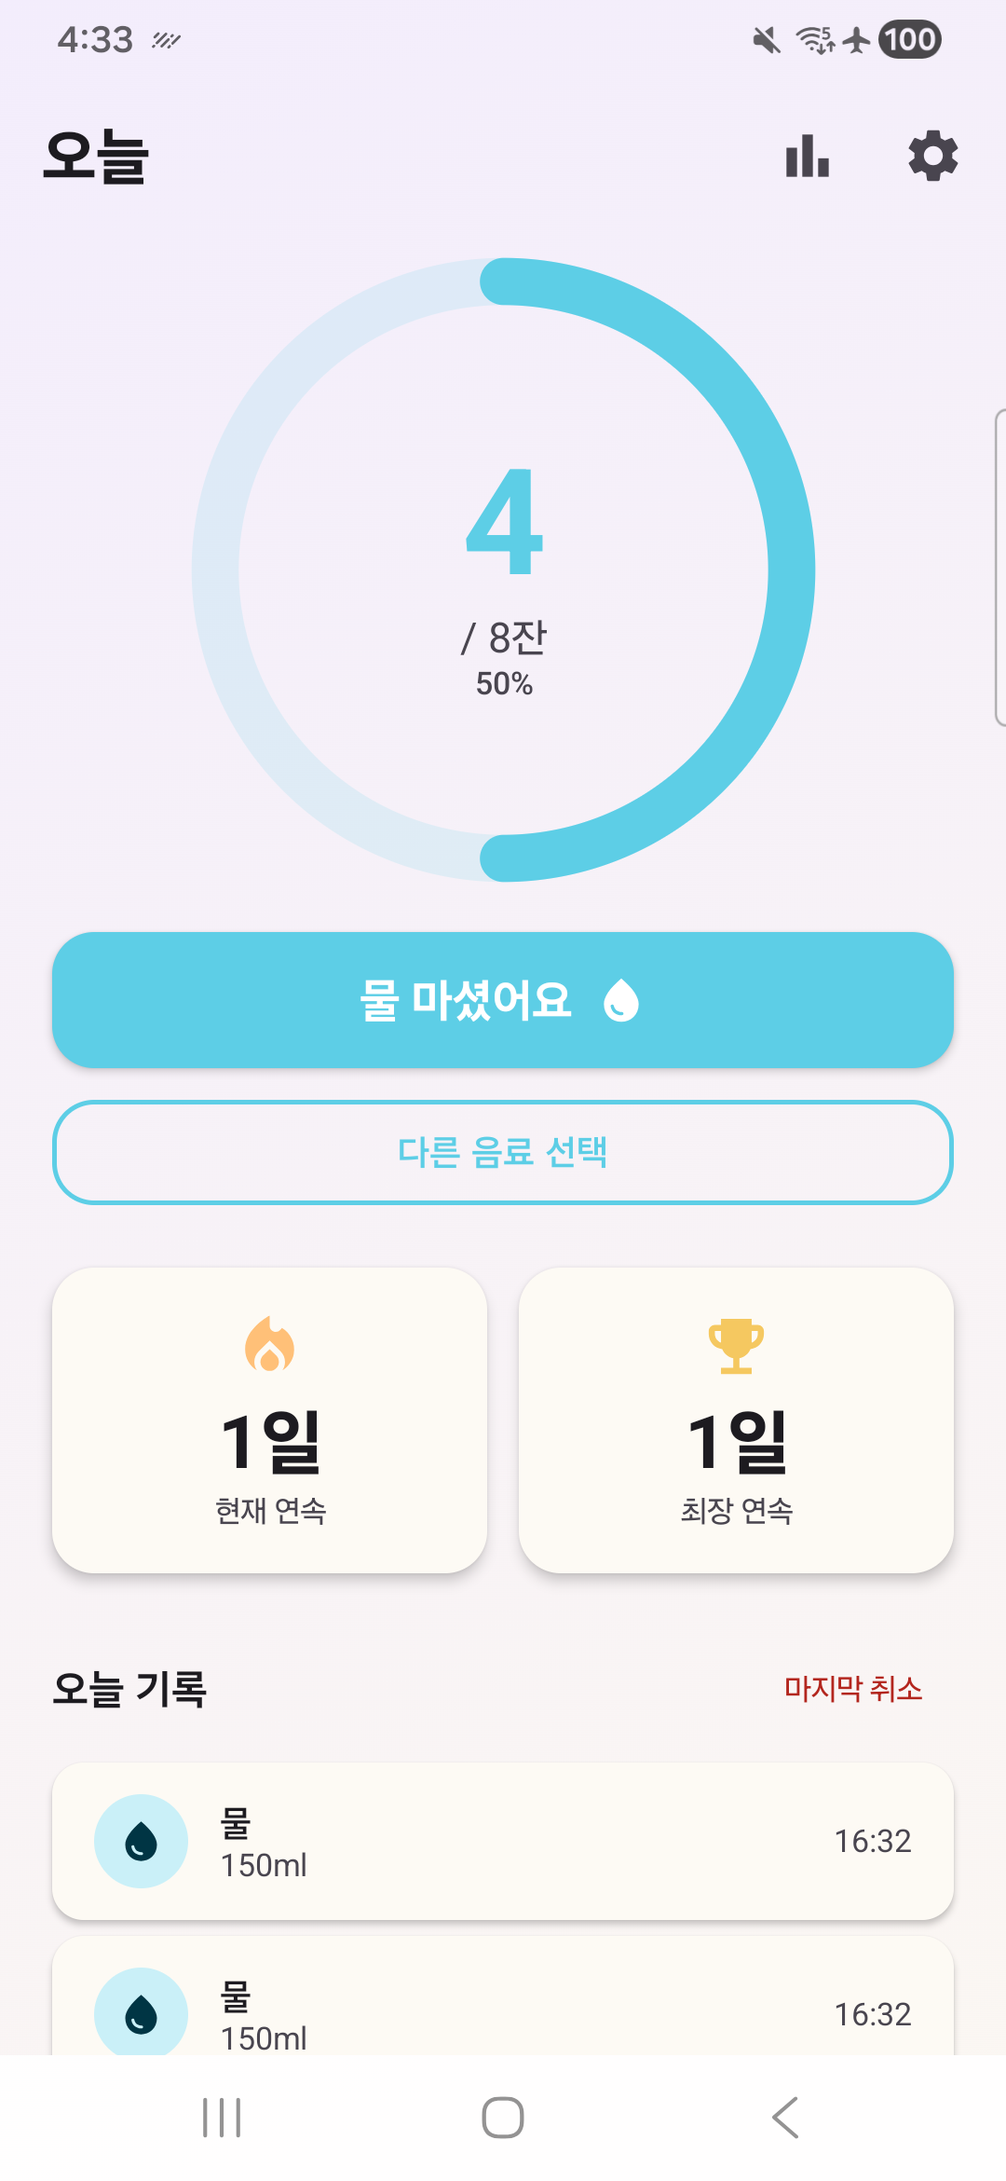
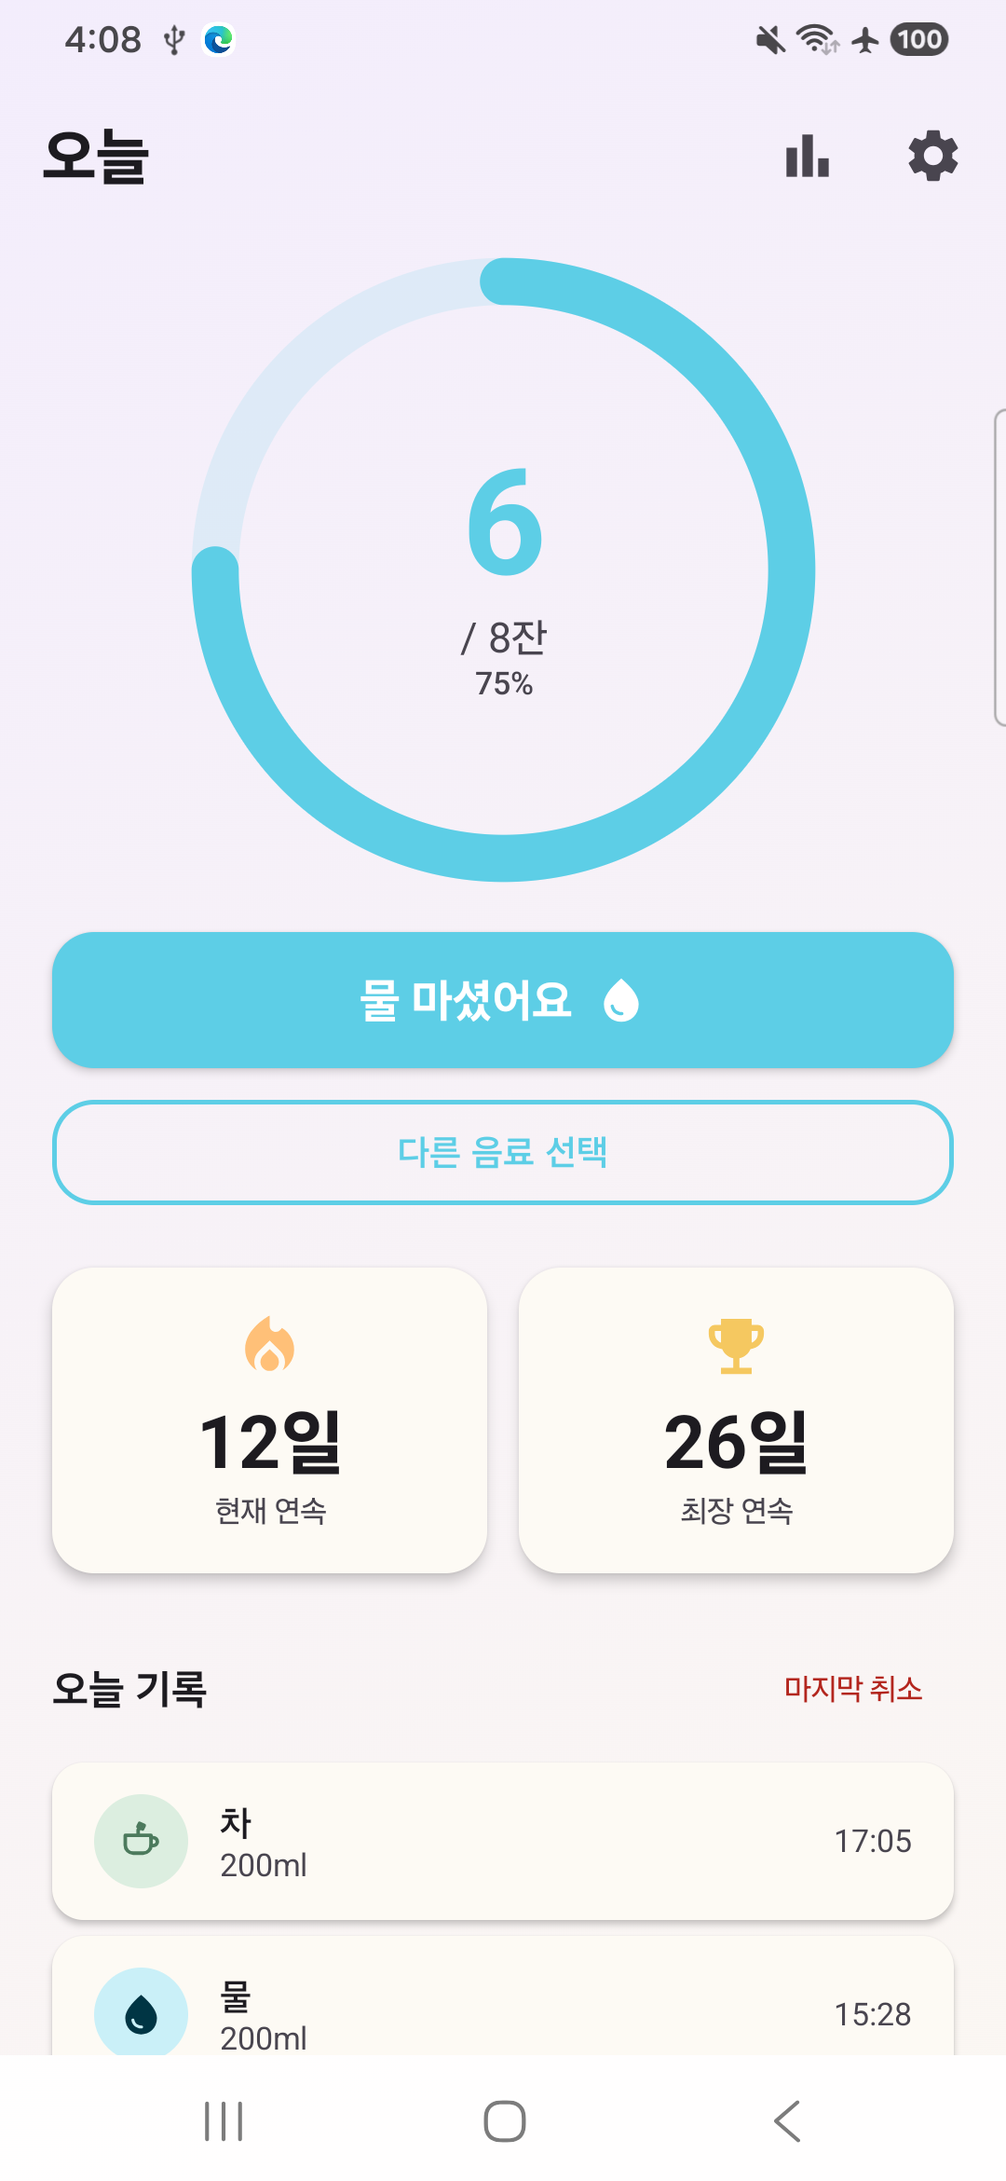
[chore] 스토어 스크린샷 7장 전체 재촬영 + 스토리보드 구성
위젯이 핵심 기능이라는 의견을 반영해 순서를 홈→위젯→기록 시트→30일 트렌드→
주간 통계→설정→다크모드로 재배치하고, 화면마다 물방울 마스코트 말풍선
코멘트를 곁들이는 스토리보드(docs/store/screenshot_storyboard.html)를 추가.
"어느 정도 써온 앱" 느낌을 위해 실기기 디버그 빌드에 12일 연속 등 사용
이력을 시딩해 촬영. listing_ko.md에 헤드라인/말풍선 카피 정리.

diff --git a/docs/store/screenshot_storyboard.html b/docs/store/screenshot_storyboard.html
@@ -1,0 +1,211 @@
+<!DOCTYPE html>
+<html lang="ko">
+<head>
+<meta charset="UTF-8">
+<title>워터링 스토어 스크린샷 스토리보드</title>
+<style>
+  body {
+    margin: 0;
+    padding: 40px 24px;
+    background: #EDE7F6;
+    font-family: "Apple SD Gothic Neo", "Malgun Gothic", sans-serif;
+  }
+  h1 { text-align: center; color: #2A2A33; margin-bottom: 4px; }
+  p.sub { text-align: center; color: #6b6b76; margin-top: 0; margin-bottom: 36px; }
+  .board {
+    display: flex;
+    gap: 22px;
+    overflow-x: auto;
+    padding: 20px 8px 40px;
+  }
+  .step {
+    flex: 0 0 260px;
+    display: flex;
+    flex-direction: column;
+    align-items: center;
+  }
+  .step-num {
+    width: 32px; height: 32px;
+    border-radius: 50%;
+    background: #5DCEE6;
+    color: #003544;
+    font-weight: 700;
+    display: flex; align-items: center; justify-content: center;
+    margin-bottom: 10px;
+    font-size: 15px;
+  }
+  .headline {
+    background: linear-gradient(135deg, #F3EDFC, #FBF7F2);
+    border: 1px solid #e3d9f5;
+    border-radius: 14px;
+    padding: 14px 16px;
+    text-align: center;
+    font-weight: 700;
+    font-size: 16px;
+    color: #2A2A33;
+    margin-bottom: 14px;
+    min-height: 44px;
+    display: flex;
+    align-items: center;
+    justify-content: center;
+    line-height: 1.35;
+  }
+  .phone {
+    position: relative;
+    width: 260px;
+    border-radius: 32px;
+    border: 6px solid #1a1a1f;
+    overflow: hidden;
+    box-shadow: 0 12px 28px rgba(0,0,0,0.22);
+    background: #000;
+  }
+  .phone img {
+    display: block;
+    width: 100%;
+  }
+  .bubble {
+    position: absolute;
+    max-width: 168px;
+    background: #FFFFFF;
+    border: 2px solid #5DCEE6;
+    border-radius: 18px;
+    padding: 8px 12px;
+    font-size: 12.5px;
+    font-weight: 700;
+    color: #2A2A33;
+    line-height: 1.3;
+    box-shadow: 0 6px 14px rgba(0,0,0,0.18);
+    display: flex;
+    align-items: center;
+    gap: 6px;
+    z-index: 5;
+  }
+  .bubble .drop {
+    font-size: 15px;
+    flex-shrink: 0;
+  }
+  .bubble::after {
+    content: "";
+    position: absolute;
+    width: 14px; height: 14px;
+    background: #FFFFFF;
+    border-right: 2px solid #5DCEE6;
+    border-bottom: 2px solid #5DCEE6;
+  }
+  .bubble.tail-bl::after { left: 22px; bottom: -8px; transform: rotate(45deg); }
+  .bubble.tail-tl::after { left: 22px; top: -8px; transform: rotate(225deg); }
+  .bubble.tail-br::after { right: 22px; bottom: -8px; transform: rotate(45deg); }
+  .bubble.tail-tr::after { right: 22px; top: -8px; transform: rotate(225deg); }
+  .bubble.bubble-dark { background: #12302d; color: #EAF7F5; }
+  .bubble.bubble-dark::after { background: #12302d; }
+  .caption {
+    margin-top: 10px;
+    font-size: 12.5px;
+    color: #7a7a86;
+    text-align: center;
+  }
+  .arrow {
+    align-self: center;
+    font-size: 28px;
+    color: #b9a8e0;
+    margin: 0 -6px;
+  }
+  .flow { display: flex; align-items: center; }
+</style>
+</head>
+<body>
+  <h1>💧 워터링 — 스토어 스크린샷 스토리보드</h1>
+  <p class="sub">1탭 기록 → 앱을 열지 않아도 홈 화면 위젯으로 끝 → 다양한 음료 → 30일 트렌드로 보는 패턴 → 이번 주 성과 → 내 취향대로 설정 → 다크모드까지</p>
+
+  <div class="board">
+    <div class="flow">
+      <div class="step">
+        <div class="step-num">1</div>
+        <div class="headline">"탭 한 번, 기록 끝"</div>
+        <div class="phone">
+          <img src="screenshots/01_home.png">
+          <!-- "오늘 기록"(좌)과 "마지막 취소"(우) 사이 빈 여백에 배치. 12일째는 위쪽 "현재 연속"
+               카드 얘기라 꼬리는 위(그 카드 방향)를 가리킴 -->
+          <div class="bubble tail-tl" style="top:75.5%; left:26%;"><span class="drop">💧</span>우와 12일째! 🔥</div>
+        </div>
+        <div class="caption">01_home — 오늘 6/8잔·75%, 🔥12일째 연속</div>
+      </div>
+      <div class="arrow">→</div>
+      <div class="step">
+        <div class="step-num">2</div>
+        <div class="headline">"앱을 열 필요도 없어요, 홈 화면에서 바로"</div>
+        <div class="phone">
+          <img src="screenshots/02_widgets.png">
+          <!-- 위젯 3개(카드까지) 전부 화면 상단 ~3~40%에 몰려있음 — 여유 있게 그 아래(46%)
+               빈 배경에 배치해 위젯을 전혀 가리지 않고, 꼬리만 위젯 쪽을 가리킴 -->
+          <div class="bubble tail-tl" style="top:46%; left:10%;"><span class="drop">💧</span>앱 안 열어도 톡!</div>
+        </div>
+        <div class="caption">02_widgets — 미니형·카드형·가로형 위젯 3종</div>
+      </div>
+      <div class="arrow">→</div>
+      <div class="step">
+        <div class="step-num">3</div>
+        <div class="headline">"물이든 커피든, 다 기록돼요"</div>
+        <div class="phone">
+          <img src="screenshots/03_record_sheet.png">
+          <!-- 시트는 화면 하단 70%를 덮고, 위쪽 30%는 딤 처리된 빈 배경 — 거기 배치하고 꼬리가 커피 칩을 가리킴 -->
+          <div class="bubble tail-bl" style="top:14%; left:22%;"><span class="drop">☕</span>커피도 콜!</div>
+        </div>
+        <div class="caption">03_record_sheet — 음료 6종 + 컵 크기 프리셋</div>
+      </div>
+      <div class="arrow">→</div>
+      <div class="step">
+        <div class="step-num">4</div>
+        <div class="headline">"최근 30일, 내 물 마시기 흐름이 보여요"</div>
+        <div class="phone">
+          <img src="screenshots/04_smart_stats.png">
+          <!-- 차트+안내문구는 20~57% 구간, 그 아래는 완전히 빈 공간 — 거기 배치, 꼬리가 위 차트를 가리킴 -->
+          <div class="bubble tail-tl" style="top:62%; left:18%;"><span class="drop">👀</span>패턴이 한눈에!</div>
+        </div>
+        <div class="caption">04_smart_stats — 30일 트렌드</div>
+      </div>
+      <div class="arrow">→</div>
+      <div class="step">
+        <div class="step-num">5</div>
+        <div class="headline">"이번 주 평균 8.6잔, 6/7일 달성"</div>
+        <div class="phone">
+          <img src="screenshots/05_stats.png">
+          <!-- 이 화면은 카드가 꽉 차있음 — 유일하게 빈 상단 헤더 바(3~9%) 배경에 배치, 꼬리가 아래 차트를 가리킴 -->
+          <div class="bubble tail-br" style="top:3%; right:6%;"><span class="drop">👏</span>이번 주 대박!</div>
+        </div>
+        <div class="caption">05_stats — 주간 바 차트 + 연속 기록 카드</div>
+      </div>
+      <div class="arrow">→</div>
+      <div class="step">
+        <div class="step-num">6</div>
+        <div class="headline">"내 컵, 내 루틴에 맞게"</div>
+        <div class="phone">
+          <img src="screenshots/06_settings.png">
+          <!-- 큰 "하루 목표/컵 크기" 카드가 13~62%를 다 채움 — 빈 상단 헤더 바에 배치, 꼬리가 카드를 가리킴 -->
+          <div class="bubble tail-br" style="top:3%; right:6%;"><span class="drop">🥤</span>내 컵 사이즈로 딱!</div>
+        </div>
+        <div class="caption">06_settings — 하루 목표·컵 크기 프리셋</div>
+      </div>
+      <div class="arrow">→</div>
+      <div class="step">
+        <div class="step-num">7</div>
+        <div class="headline">"다크모드도 예쁘게"</div>
+        <div class="phone">
+          <img src="screenshots/07_dark_mode.png">
+          <!-- 홈과 동일 레이아웃 — 연속 기록 카드(48~62%) 바로 위 여백에 배치 -->
+          <div class="bubble tail-bl bubble-dark" style="top:42%; left:8%;"><span class="drop">🌙</span>밤에도 예쁘죠?</div>
+        </div>
+        <div class="caption">07_dark_mode — 시스템 테마 자동 대응</div>
+      </div>
+    </div>
+  </div>
+
+  <p class="sub" style="margin-top:8px;">참고용 대안 — 연간 히트맵 (스마트 통계 두번째 탭)</p>
+  <div class="board" style="justify-content:center;">
+    <div class="step">
+      <div class="phone"><img src="screenshots/bonus_annual_heatmap.png"></div>
+      <div class="caption">bonus_annual_heatmap — 연간 기록, 최장 26일 연속(대안/추가 후보)</div>
+    </div>
+  </div>
+</body>
+</html>

diff --git a/docs/개발보고서.md b/docs/개발보고서.md
@@ -86,6 +86,10 @@
 > 뒤 호출이 앞 호출의 변경을 덮어쓸 수 있던 read-modify-write 레이스(Mutex로 직렬화, 재현 테스트로
 > 확인 완료). ⑧의 세 번째 항목(컵 크기 다이얼로그 ml 표시 불일치, 정보성·영향 작음)은 낮은
 > 우선순위로 보류. 상세는 아래 "2026-07-17 — 로직 헛점 전수 분석 ⑦⑧ 수정" 섹션 참고.
+> **출시용 스토어 스크린샷 7장 전체 재촬영 완료(2026-07-17/18)**: "위젯이 킥 기능"이라는 owner
+> 의견에 맞춰 순서를 재배치하고, 물방울 마스코트 말풍선 코멘트를 곁들인 스토리보드 구성 추가.
+> 상세는 "남은 작업 > 다운로드 전환 최적화(ASO) 준비" 및 `docs/store/listing_ko.md`,
+> `docs/store/screenshot_storyboard.html` 참고. **다음은 스토어 설명(리스팅 카피) 재작업.**
 
 ---
 
@@ -3704,16 +3708,11 @@
 
 ### Play 스토어 등록 남은 작업 — 2026-07-09 세션, 내일(2026-07-10) 출시 목표
 
-- [x] **스크린샷 5장 재촬영 완료 (2026-07-09)** — 01_home(4/8·50%)/02_record_sheet/04_stats/
-  05_settings(알림 간격 4시간)/06_dark_mode 5장을 Galaxy A25 실기기로 재촬영, 최신 UI(v0.31.26~41
-  전체 반영분) 기준으로 갱신 완료. `docs/store/screenshots/`에 반영 대기 중(사용자 검토 후 확정)
-  - [ ] **03_widgets.png(위젯 3종)만 재작업 필요** — 처음엔 오늘 만든 위젯 테마 화면의 인앱
-    미리보기(`WidgetThemeScreen.kt`의 `MiniWidgetPreview`/`CardWidgetPreview`/`WideWidgetPreview`)로
-    합성했으나, 이 미리보기는 설정 화면 전용으로 새로 그린 간이 버전이라 실제 Glance 위젯
-    (`CircularWidget.kt`/`RectangularWidget.kt`/`NarrowWidget.kt`)과 폰트·간격·문구가 달라
-    사용자가 재작업 요청(2026-07-09). **사용자가 직접 실제 폰 홈 화면에 위젯 3종(미니형/카드형/
-    가로형)을 배치한 뒤 알려주면 그 상태를 캡처하는 방식으로 진행하기로 결정** — 공유 화면(홈
-    런처)이라 자동으로 건드리지 않음. 다음 세션에서 이어서 진행
+- [x] **스크린샷 7장 전체 재촬영 완료 (2026-07-17/18)** — 아래 "다운로드 전환 최적화(ASO) 준비"
+  섹션 참고. `docs/store/screenshots/`에 정식 반영 완료.
+  - [x] **위젯 스크린샷도 포함 완료** — owner가 실제 폰 홈 화면에 위젯 3종(미니형/카드형/가로형)을
+    직접 배치, 그 상태를 캡처(공유 화면인 홈 런처는 자동으로 건드리지 않는 원칙 유지). 상세는 아래
+    섹션 참고.
 - [x] 스토어 텍스트(앱 이름/짧은 설명/전체 설명/키워드) 최신화 — v0.31.38~39 완료(위젯 1탭
   포지셔닝 피벗 + 프리미엄 안내 정리), `docs/store/listing_ko.md` 참고
 - [ ] 잠금화면 위젯 스크린샷 — 지원 기기(One UI 아닌 기기) 확보 후 실기기 검증 필요, 현재 보너스
@@ -3779,15 +3778,27 @@
 - [ ] 프로덕션 액세스 신청 — 위 비공개 테스트 기간(2026-07-24) 종료 및 조건 충족 후 진행
 
 **다운로드 전환 최적화(ASO) 준비 (2026-07-16, 사용자 요청 — 출시 후 다운로드 수 증대 전략)**:
-- [ ] 🔴 **출시용 스토어 스크린샷 재촬영** — 현재 `docs/store/screenshots/` 6장은 v0.31.39
-  포지셔닝 전환("잠금화면 위젯 퍼스트" → "위젯 1탭 퍼스트") 전후로 UI가 계속 바뀌어와 최신 화면과
-  괴리가 있을 가능성이 높음(음료 아이콘 원형 배지, 기록 설정 카드 통합, 위젯 진행률 배경 채움형
-  리디자인 등 07-11~07-13 변경분 다수 미반영). 실기기(SM-A256N)에서 최신 빌드로 전 화면 재촬영 필요
+- [x] 🔴 **출시용 스토어 스크린샷 재촬영** — 2026-07-17/18 완료. 실기기(SM-A256N) 디버그 빌드에
+  "어느 정도 써온 앱"처럼 보이는 사용 이력(12일 연속·최장 26일·이번 주 평균 8.6잔 등)을 시딩한 뒤
+  최신 UI 기준으로 7장 전체 재촬영. "위젯이 킥 기능"이라는 owner 의견을 반영해 순서를 홈→**위젯**→
+  기록 시트→30일 트렌드→주간 통계→설정→다크모드로 재배치하고, 각 화면에 물방울 마스코트가 말하는
+  짧은 코멘트(말풍선)를 곁들이는 스토리보드 구성 추가 — 스피치 버블/콜아웃 스타일이 상위권 앱들의
+  공통 트렌드라는 시장 조사 결과 반영. 미리보기는 `docs/store/screenshot_storyboard.html`.
+  **데이터 시딩 방법(재현용)**: 정식 테스트가 아닌 일회성 androidTest
+  (`ScreenshotSeedTest.kt`, 촬영 후 삭제됨)에서 `WaterRepository.restoreAll()`(백업/복원용으로
+  이미 있던 함수 재사용 — annualHistory 기준으로 streak을 자동 재계산해줘서 손으로 만든 것보다
+  안전)과 `AchievementDataStore.restoreLifetimeEarned()`로 44일치 기록을 직접 심음. **막혔던 점
+  두 가지**: ① 배포판(`com.watering.app`)과 디버그(`.debug`)의 앱 이름이 똑같이 "워터링"이라
+  위젯 선택 목록에서 구분이 안 됐음 — `resValue`로 디버그 앱 이름을 "워터링 디버그"로 임시 변경
+  후 촬영, 완료 후 원복. ② Glance 위젯은 DataStore를 직접 구독하지 않아 데이터만 심으면 위젯이
+  갱신되지 않는 캐시 문제(기존 "Glance 위젯 세션 재사용 stale" 버그와 같은 계열) — 시딩 스크립트
+  끝에 `WateringWidgetUpdater.updateAll()`을 명시적으로 호출해 해결.
 - [ ] 🔴 **스토어 설명(리스팅 카피) 재작업** — `docs/store/listing_ko.md`(+영문판)를 다운로드 전환율을
   높이는 방향으로 다시 다듬음("설명서처럼" 기능을 나열하는 현재 방식 대신, 첫 3줄 후킹·핵심 가치
-  전달 강화). 최신 포지셔닝("위젯 1탭")과 실제 화면(재촬영된 스크린샷)에 맞춰 동기화 필요
-- **진행 순서**: 스크린샷 재촬영 → 그 화면에 맞춰 설명 카피 조정 순으로 진행 권장(설명이 스크린샷을
-  설명하는 구조이므로). 비공개 테스트 종료(2026-07-24)·프로덕션 전환 전에 마무리하는 것이 이상적
+  전달 강화). 최신 포지셔닝("위젯 1탭")과 실제 화면(재촬영된 스크린샷)에 맞춰 동기화 필요 — 헤드라인/
+  말풍선 카피는 이미 `listing_ko.md` 스크린샷 표에 정리해뒀으니 그 톤을 본문 설명에도 반영하면 됨
+- **진행 순서**: ~~스크린샷 재촬영~~(완료) → 그 화면에 맞춰 설명 카피 조정(다음 단계). 비공개 테스트
+  종료(2026-07-24)·프로덕션 전환 전에 마무리하는 것이 이상적
 
 **백업/복원 실기기 검증 우선순위 재조정 (2026-07-09)**: 이번 주 스토어 등록을 우선 진행하기로
 하고 백업/복원 왕복 실기기 검증(SHA-1 불일치로 막혀있던 항목, 위 "백업 및 복원 기능" 섹션 참고)은

diff --git a/docs/store/listing_ko.md b/docs/store/listing_ko.md
@@ -78,14 +78,32 @@ Play Console 콘텐츠 등급 설문 별도 진행 필요 (건강 정보 수집 
 
 ## 스크린샷 (docs/store/screenshots/)
 
-| 파일 | 화면 | 헤드라인(스토어에 별도 오버레이 시 사용) |
-|---|---|---|
-| 01_home.png | 원탭 기록 화면 (진행률 링 4/8) | "탭 한 번, 기록 끝" |
-| 02_record_sheet.png | 음료 기록 시트 | "물 말고도 커피·주스·차·우유까지" |
-| 03_widgets.png | 홈 화면 위젯 3종 | "홈 화면에서도 한눈에" |
-| 04_stats.png | 통계 화면 | "내 수분 패턴을 알면 습관이 된다" |
-| 05_settings.png | 설정 화면 (알림 간격 4시간 포함) | "내 라이프스타일에 맞게 알림 설정" |
-| 06_dark_mode.png | 다크모드 홈 화면 | "내 폰 테마에 맞게 자동 적용" |
+2026-07-17/18 세션에서 전체 재촬영. "어느 정도 써온 앱"처럼 보이도록 실기기 디버그 빌드에 현재
+12일 연속(최장 26일)·이번 주 평균 8.6잔 등 그럴듯한 사용 이력을 시딩한 뒤 촬영(시딩 방법은 아래
+참고). 순서를 "위젯이 킥"이라는 실제 제품 포지셔닝에 맞춰 재배치하고, 각 화면에 물방울 마스코트가
+말하는 짧은 코멘트를 얹는 스토리보드 구성을 추가했다 — 미리보기는
+`docs/store/screenshot_storyboard.html`(브라우저로 직접 열기)에서 확인.
+
+| 순서 | 파일 | 화면 | 헤드라인(스토어에 별도 오버레이 시 사용) | 말풍선 코멘트 |
+|---|---|---|---|---|
+| 1 | 01_home.png | 원탭 기록 화면 (진행률 링 6/8·75%, 🔥12일 연속) | "탭 한 번, 기록 끝" | "우와 12일째! 🔥" |
+| 2 | 02_widgets.png | 홈 화면 위젯 3종 (미니형/카드형/가로형) | "앱을 열 필요도 없어요, 홈 화면에서 바로" | "앱 안 열어도 톡!" |
+| 3 | 03_record_sheet.png | 음료 기록 시트 (물/커피/차/주스/우유/기타) | "물이든 커피든, 다 기록돼요" | "커피도 콜! ☕" |
+| 4 | 04_smart_stats.png | 스마트 통계 — 30일 트렌드 | "최근 30일, 내 물 마시기 흐름이 보여요" | "패턴이 한눈에! 👀" |
+| 5 | 05_stats.png | 통계 화면 — 주간 바 차트 + 연속 기록 | "이번 주 평균 8.6잔, 6/7일 달성" | "이번 주 대박! 👏" |
+| 6 | 06_settings.png | 설정 화면 (하루 목표·컵 크기 프리셋) | "내 컵, 내 루틴에 맞게" | "내 컵 사이즈로 딱! 🥤" |
+| 7 | 07_dark_mode.png | 다크모드 홈 화면 | "다크모드도 예쁘게" | "밤에도 예쁘죠? 🌙" |
+
+`bonus_annual_heatmap.png`(스마트 통계 — 연간 히트맵)은 4번 자리의 대안 후보로 함께 보관 중,
+아직 채택 안 함.
+
+**위젯 스크린샷 촬영 팁(재현용)**: 실제 배포판(`com.watering.app`)과 디버그
+(`com.watering.app.debug`)의 앱 이름이 둘 다 "워터링"이라 위젯 선택 목록에서 구분이 안 되는
+문제가 있었음 — `app/build.gradle.kts`의 `debug` 빌드타입에 `resValue("string", "app_name",
+"워터링 디버그")`를 임시로 추가해 구분되게 만든 뒤 위젯을 배치하고, 촬영 후 되돌렸다. 또한 Glance
+위젯은 DataStore를 직접 구독하지 않아 백그라운드에서 데이터만 심으면(백업/복원용
+`WaterRepository.restoreAll` 재사용) 위젯이 갱신되지 않는 캐시 문제가 있었음 —
+`WateringWidgetUpdater.updateAll()`을 시딩 스크립트 마지막에 명시적으로 호출해야 함.
 
 > 에뮬레이터 한계로 실제 잠금화면 위젯 스크린샷은 촬영하지 못함 (Android 16 QPR1 잠금화면 위젯 기능 자체가 아직 미검증 상태 — 로드맵 참고). 실기기에서 잠금화면 위젯 확인 후 대체 촬영 권장.
 
